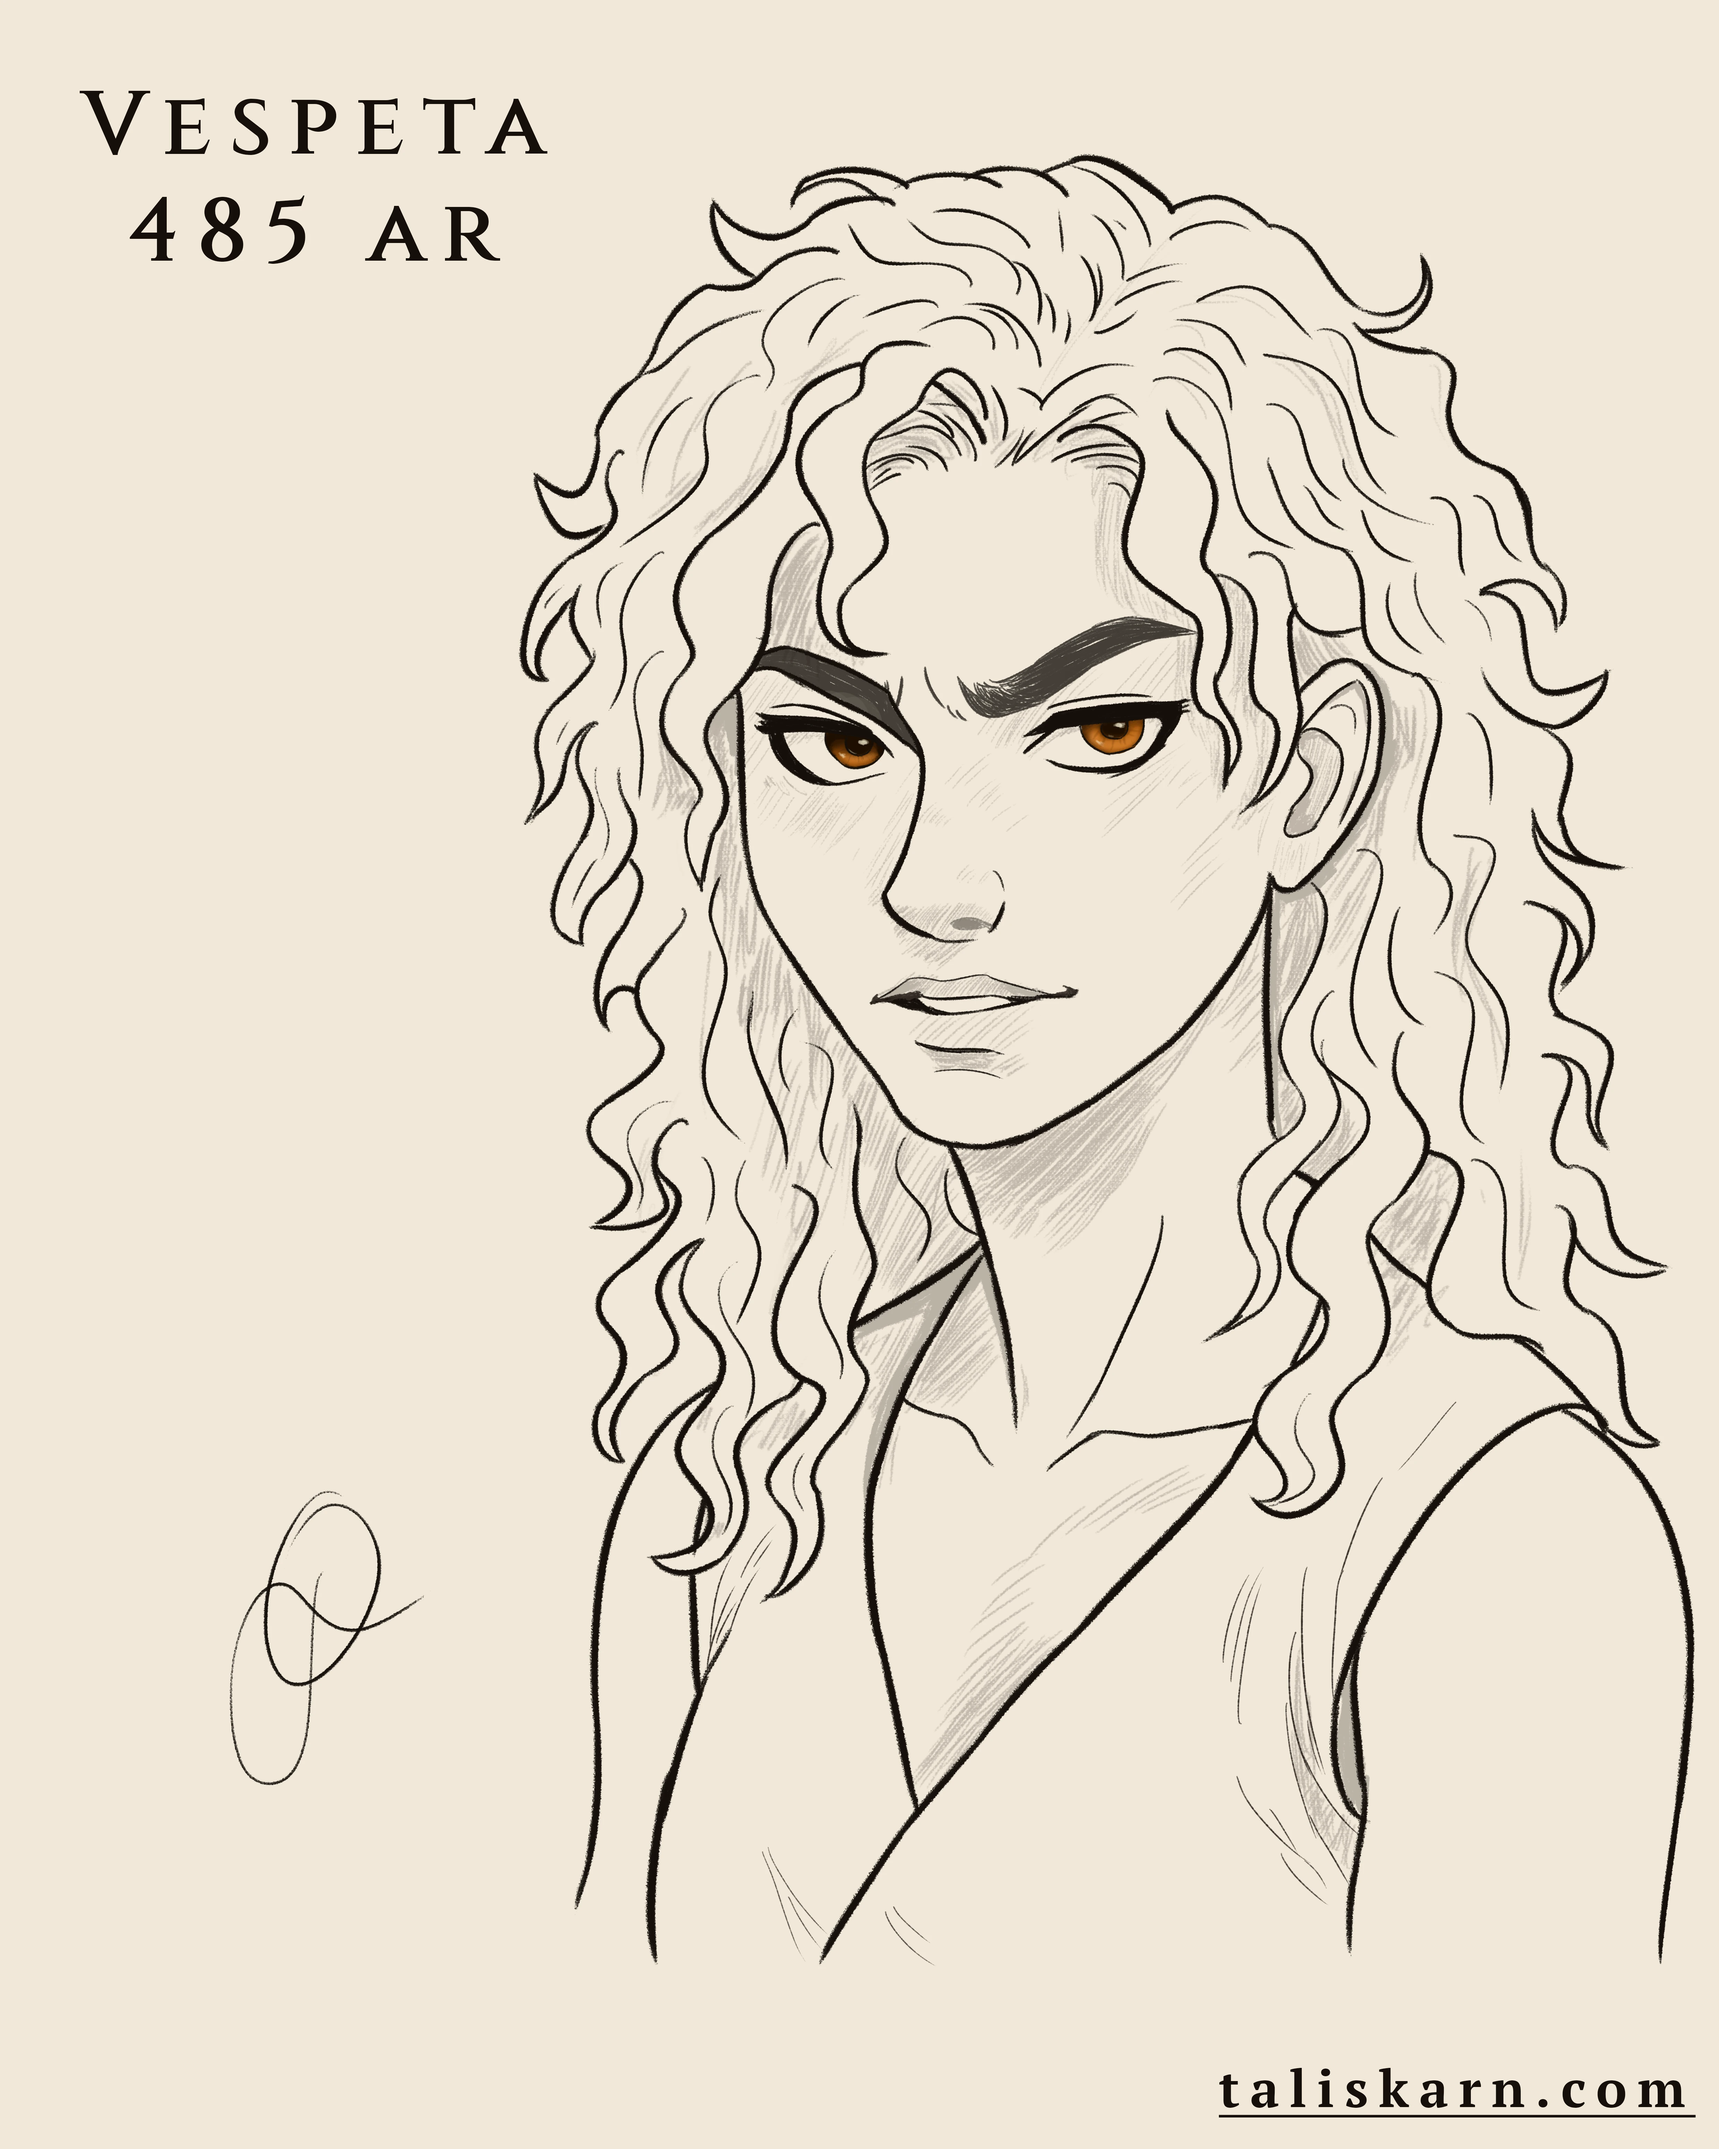
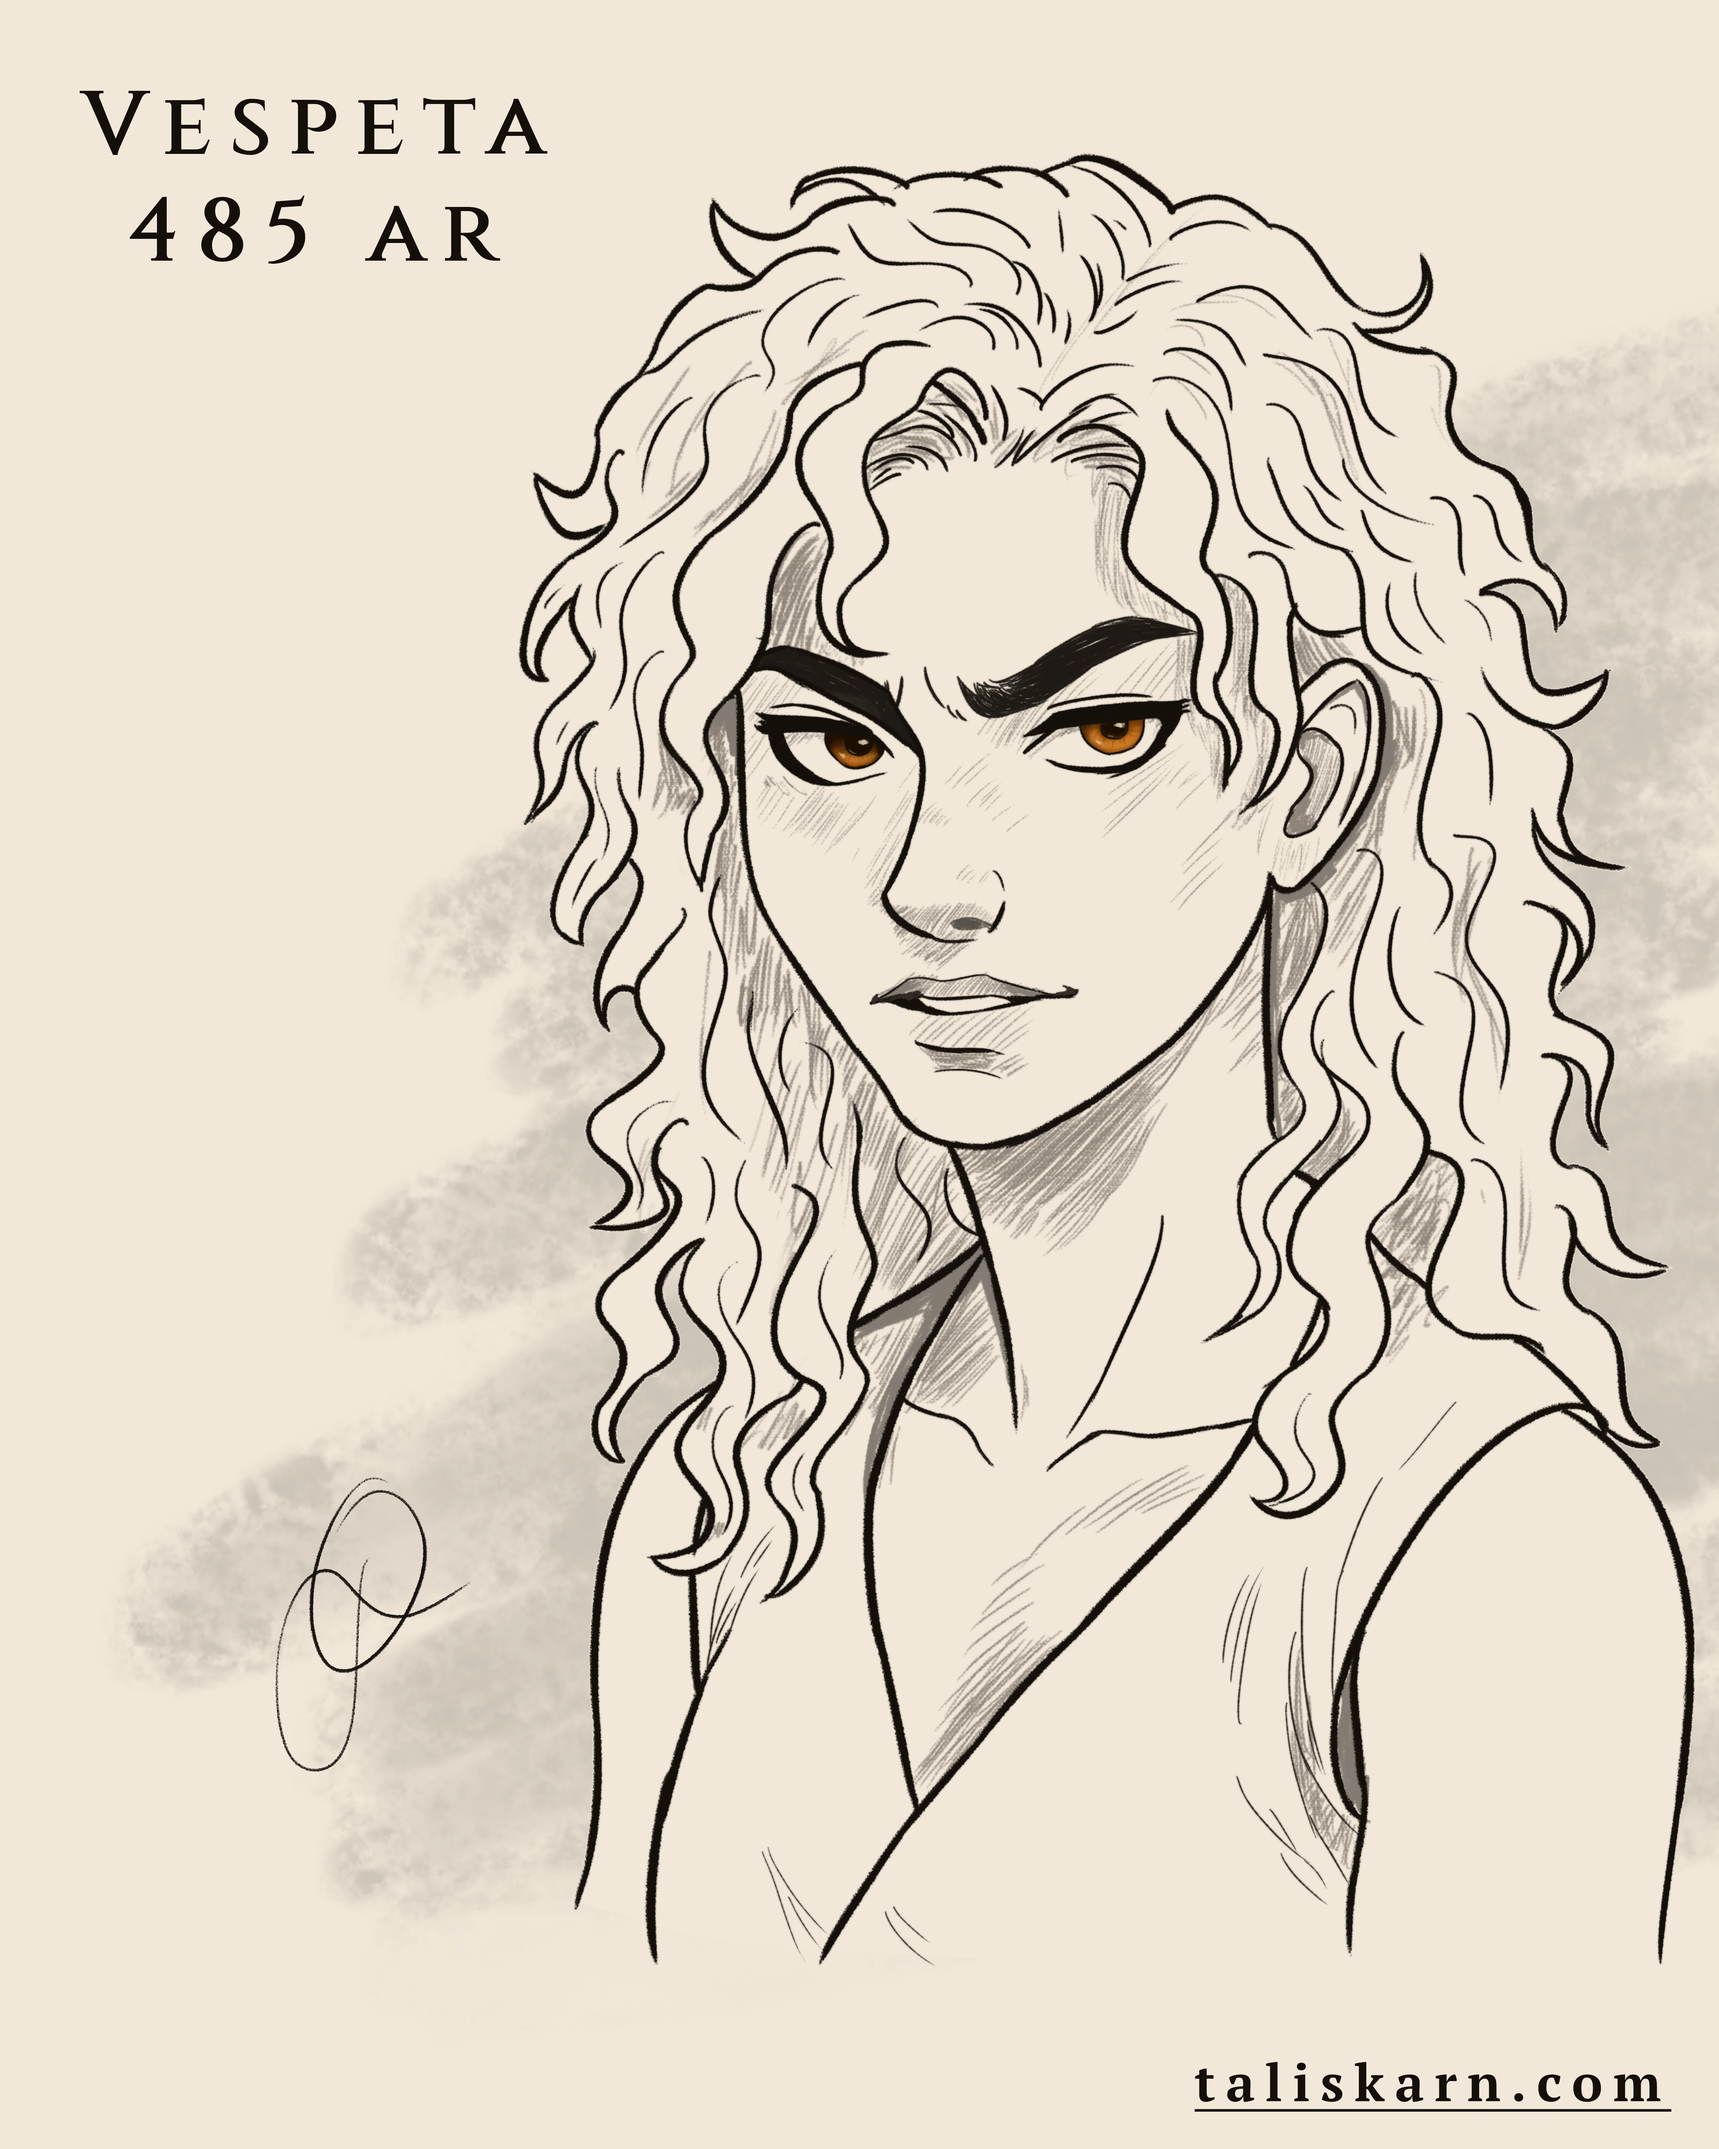
-update prymars art (vespeta)

diff --git a/ru/denizens/races/prymars/index.html b/ru/denizens/races/prymars/index.html
@@ -521,7 +521,7 @@
                 <div class="article-content">
                     <div class="article-text" style="overflow: hidden;">
                         <div class="info-box">
-    <img src="/assets/pictures/denizens/races/prymars/vespeta_2-4-2025.webp" alt="Примары" class="phb-image" />
+    <img src="/assets/pictures/denizens/races/prymars/vespeta-color-3-4-2025.webp" alt="Примары" class="phb-image" />
     <!-- <table>
         <tr>
             <th><strong>ПЛЕЙСХОЛДЕР:</strong></th>

diff --git a/denizens/races/prymars/index.html b/denizens/races/prymars/index.html
@@ -521,7 +521,7 @@
                 <div class="article-content">
                     <div class="article-text" style="overflow: hidden;">
                         <div class="info-box">
-    <img src="/assets/pictures/denizens/races/prymars/vespeta_2-4-2025.webp" alt="Prymars" class="phb-image" />
+    <img src="/assets/pictures/denizens/races/prymars/vespeta-color-3-4-2025.webp" alt="Prymars" class="phb-image" />
 </div>
 
 <blockquote>
